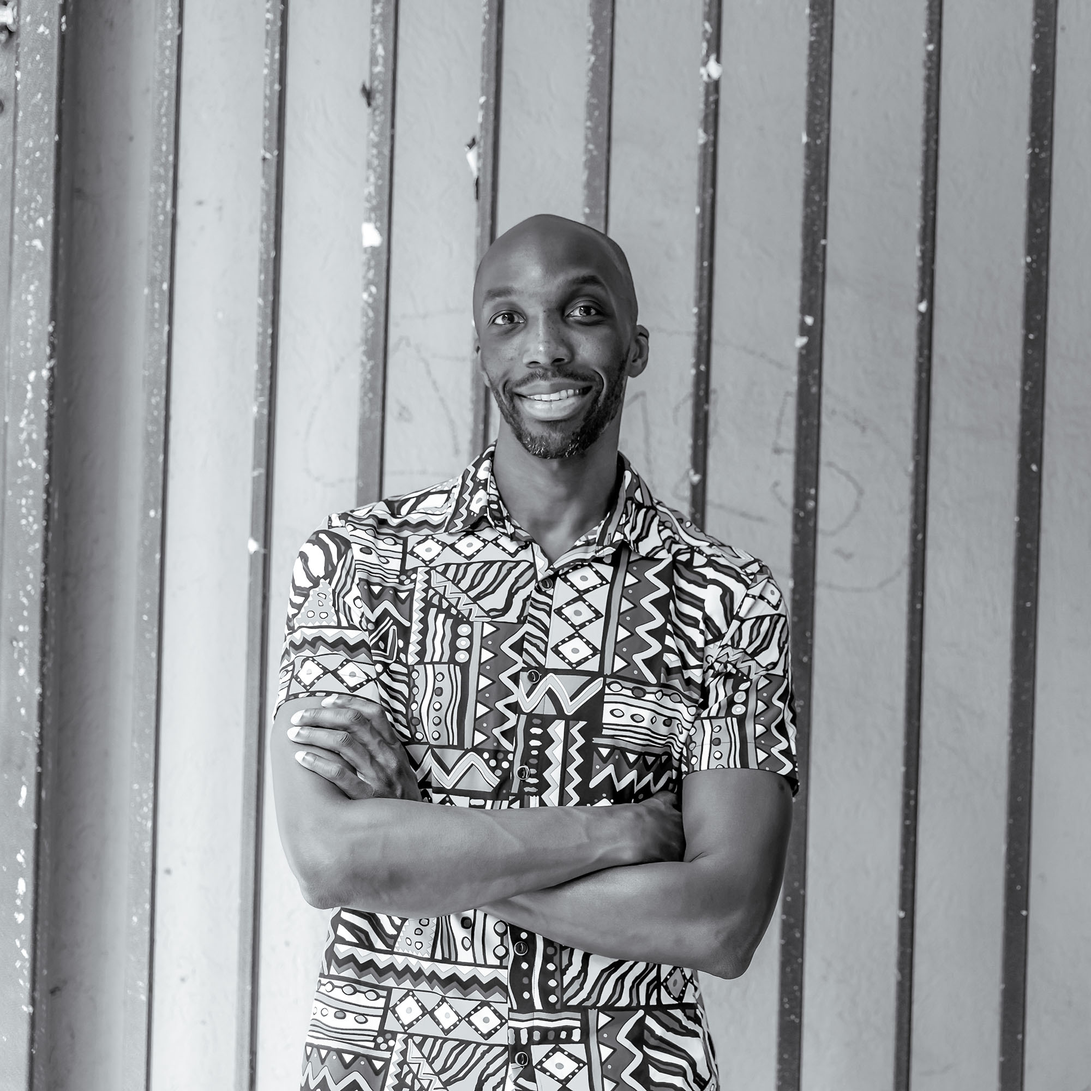
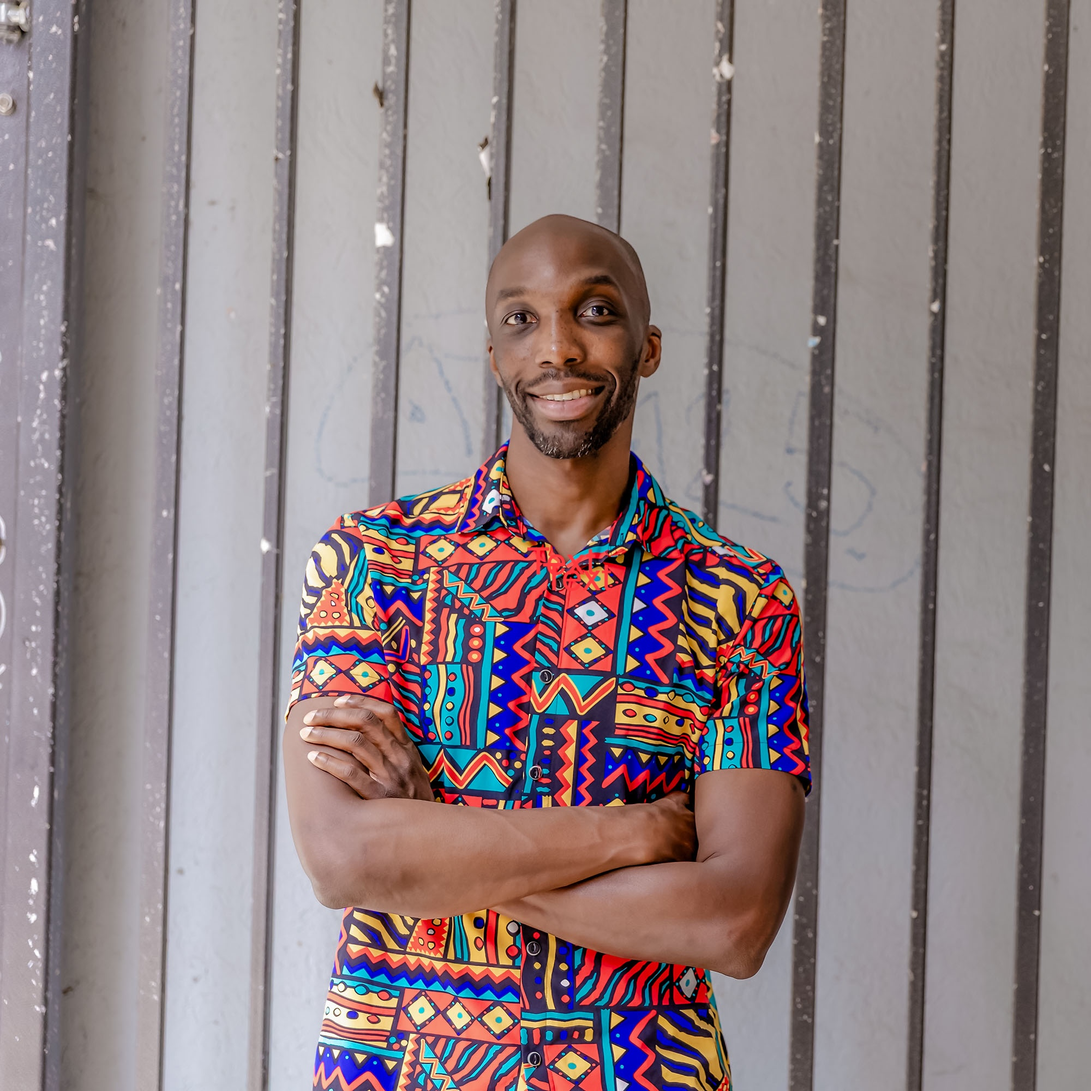
docs: update DR-0010 and DR-0011 to reflect off-white background and no photo border

diff --git a/dr/udr/DR-0010-colour-palette.md b/dr/udr/DR-0010-colour-palette.md
@@ -34,11 +34,11 @@ The site currently uses `#1a1a1a` text on `#fff` background with no accent colou
 
 ## Options considered
 
-| Option                                        | Summary                                               | Why not chosen                                                  |
-| --------------------------------------------- | ----------------------------------------------------- | --------------------------------------------------------------- |
-| Stick with `#1a1a1a` on `#fff` with no accent | Minimal, clean, zero personality                      | Links are invisible; page reads as unstyled rather than minimal |
-| Muted blue accent on white                    | Professional, safe                                    | User wanted something warmer and more distinctive               |
-| **Five-colour warm palette from coolors.co**  | `#BF3100`, `#FF9F1C`, `#FEF5EF`, `#143642`, `#0F8B8D` | **Chosen**                                                      |
+| Option                                        | Summary                                                                      | Why not chosen                                                  |
+| --------------------------------------------- | ---------------------------------------------------------------------------- | --------------------------------------------------------------- |
+| Stick with `#1a1a1a` on `#fff` with no accent | Minimal, clean, zero personality                                             | Links are invisible; page reads as unstyled rather than minimal |
+| Muted blue accent on white                    | Professional, safe                                                           | User wanted something warmer and more distinctive               |
+| **Five-colour warm palette from coolors.co**  | `#BF3100`, `#FF9F1C`, `#fafafa` (off-white background), `#143642`, `#0F8B8D` | **Chosen**                                                      |
 
 ## Decision outcome
 
@@ -46,7 +46,7 @@ The five colours are assigned to semantic roles:
 
 | Token                  | Value     | Role                                                                |
 | ---------------------- | --------- | ------------------------------------------------------------------- |
-| `--color-background`   | `#FEF5EF` | Page background — warm cream                                        |
+| `--color-background`   | `#fafafa` | Page background — off-white                                         |
 | `--color-text`         | `#143642` | Body text — dark teal (softer and more distinctive than near-black) |
 | `--color-accent`       | `#BF3100` | Links, focus ring — bold red-orange, highly discoverable            |
 | `--color-accent-hover` | `#FF9F1C` | Link hover state — warm amber                                       |
@@ -56,15 +56,15 @@ The five colours are assigned to semantic roles:
 
 | Foreground          | Background           | Ratio   | AA normal     | AA large |
 | ------------------- | -------------------- | ------- | ------------- | -------- |
-| `#143642` text      | `#FEF5EF` background | ~10.5:1 | ✅ Pass       | ✅ Pass  |
-| `#BF3100` accent    | `#FEF5EF` background | ~5.2:1  | ✅ Pass       | ✅ Pass  |
-| `#0F8B8D` secondary | `#FEF5EF` background | ~4.7:1  | ⚠ Borderline | ✅ Pass  |
+| `#143642` text      | `#fafafa` background | ~11.5:1 | ✅ Pass       | ✅ Pass  |
+| `#BF3100` accent    | `#fafafa` background | ~5.5:1  | ✅ Pass       | ✅ Pass  |
+| `#0F8B8D` secondary | `#fafafa` background | ~5.0:1  | ⚠ Borderline | ✅ Pass  |
 
 The secondary accent (`#0F8B8D`) is borderline for normal text at small sizes. It will only be used for non-critical elements (language toggle, metadata) at `0.875rem` or larger, where AA large-text thresholds apply.
 
 ## Consequences
 
-- **Positive:** The palette is warm, personal, and distinctive. The red-orange accent makes links immediately discoverable. The cream background softens the page without looking beige.
+- **Positive:** The palette is personal and distinctive. The red-orange accent makes links immediately discoverable. The off-white background is clean and professional without the sterility of pure white.
 - **Negative:** Five colours to manage instead of two. The secondary teal (`#0F8B8D`) needs care — it must not be used for critical body text at small sizes.
 - **Accepted risk:** The warm palette works for the current single-page portfolio. If dark mode is added later, these colours will need dark variants (likely a full second palette rather than a simple inversion).
 

diff --git a/dr/udr/DR-0011-photo-treatment-circle-border.md b/dr/udr/DR-0011-photo-treatment-circle-border.md
@@ -34,29 +34,28 @@ The homepage photo (`/main.jpg`) is currently displayed as a 300×300 square wit
 
 ## Options considered
 
-| Option                        | Summary                                                      | Why not chosen                                                                    |
-| ----------------------------- | ------------------------------------------------------------ | --------------------------------------------------------------------------------- |
-| Square, no border             | Current state                                                | Feels unfinished against the deliberate palette                                   |
-| Circle, no border             | Friendly, clean                                              | The photo edge can blend into the cream background depending on the image content |
-| **Circle with subtle border** | `border-radius: 50%`, thin border using the secondary accent | **Chosen**                                                                        |
+| Option                | Summary                         | Why not chosen                                                                    |
+| --------------------- | ------------------------------- | --------------------------------------------------------------------------------- |
+| Square, no border     | Current state                   | Feels unfinished against the deliberate palette                                   |
+| Circle, no border     | Friendly, clean                 | The photo edge can blend into the cream background depending on the image content |
+| **Circle, no border** | `border-radius: 50%`, no border | **Chosen** — post-implementation preference for a cleaner look                    |
 
 ## Decision outcome
 
-The photo is displayed as a circle (`border-radius: 50%`) with a subtle border:
+The photo is displayed as a circle (`border-radius: 50%`) with no border:
 
-| Property        | Value               | Rationale                                    |
-| --------------- | ------------------- | -------------------------------------------- |
-| `border-radius` | `50%`               | Circle crop                                  |
-| `border`        | `2px solid #0F8B8D` | Subtle definition using the secondary accent |
-| `width`         | `300px`             | Desktop size                                 |
-| `max-width`     | `100%`              | Fluid on mobile (inherited)                  |
-| `height`        | `auto`              | Maintains aspect ratio (inherited)           |
+| Property        | Value   | Rationale                          |
+| --------------- | ------- | ---------------------------------- |
+| `border-radius` | `50%`   | Circle crop                        |
+| `width`         | `300px` | Desktop size                       |
+| `max-width`     | `100%`  | Fluid on mobile (inherited)        |
+| `height`        | `auto`  | Maintains aspect ratio (inherited) |
 
 The favicon (JP initials SVG) is unchanged — it was already settled as part of v1.
 
 ## Consequences
 
-- **Positive:** The circle crop immediately signals "person." The subtle teal border ties the photo to the palette without shouting. The photo survives any background colour change.
+- **Positive:** The circle crop immediately signals "person."
 - **Negative:** `border-radius: 50%` only works if the image is square. The current photo is 300×300, so this holds. If replaced with a non-square image, it will need `object-fit: cover`.
 - **Accepted risk:** If the photo's edges are close to the subject's head, a circle crop can clip awkwardly. The current photo has enough headroom.
 
